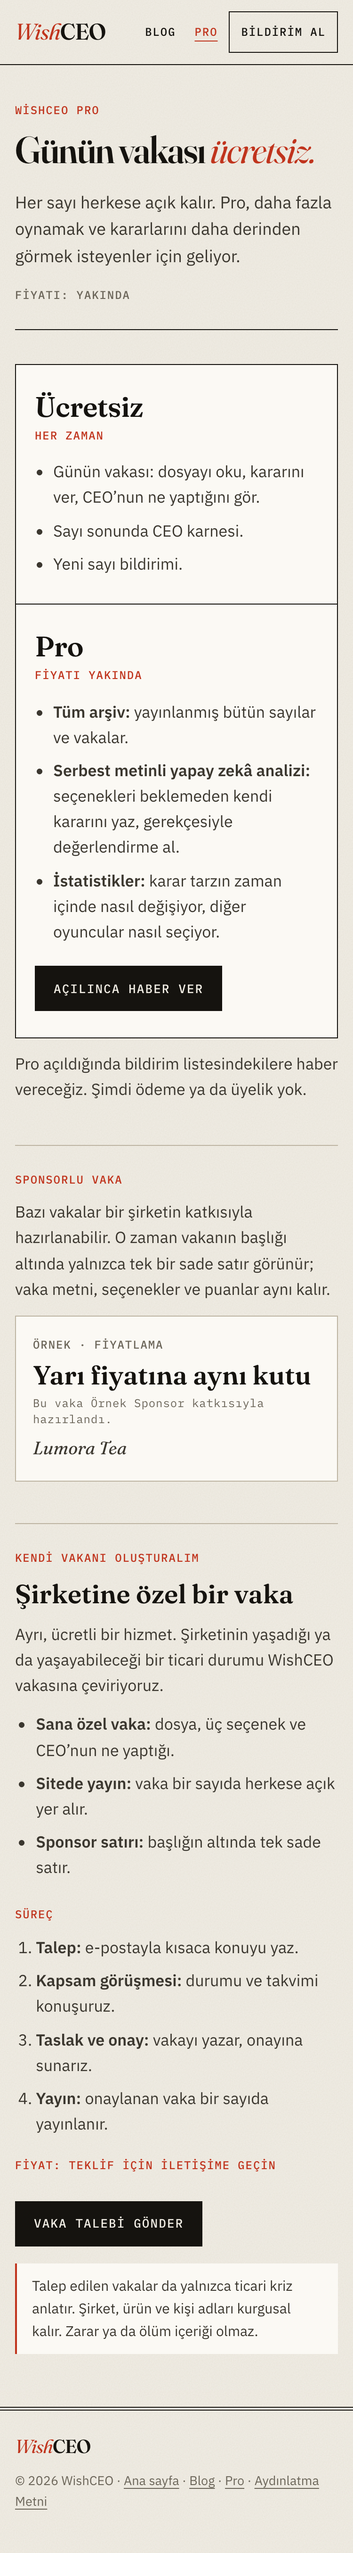
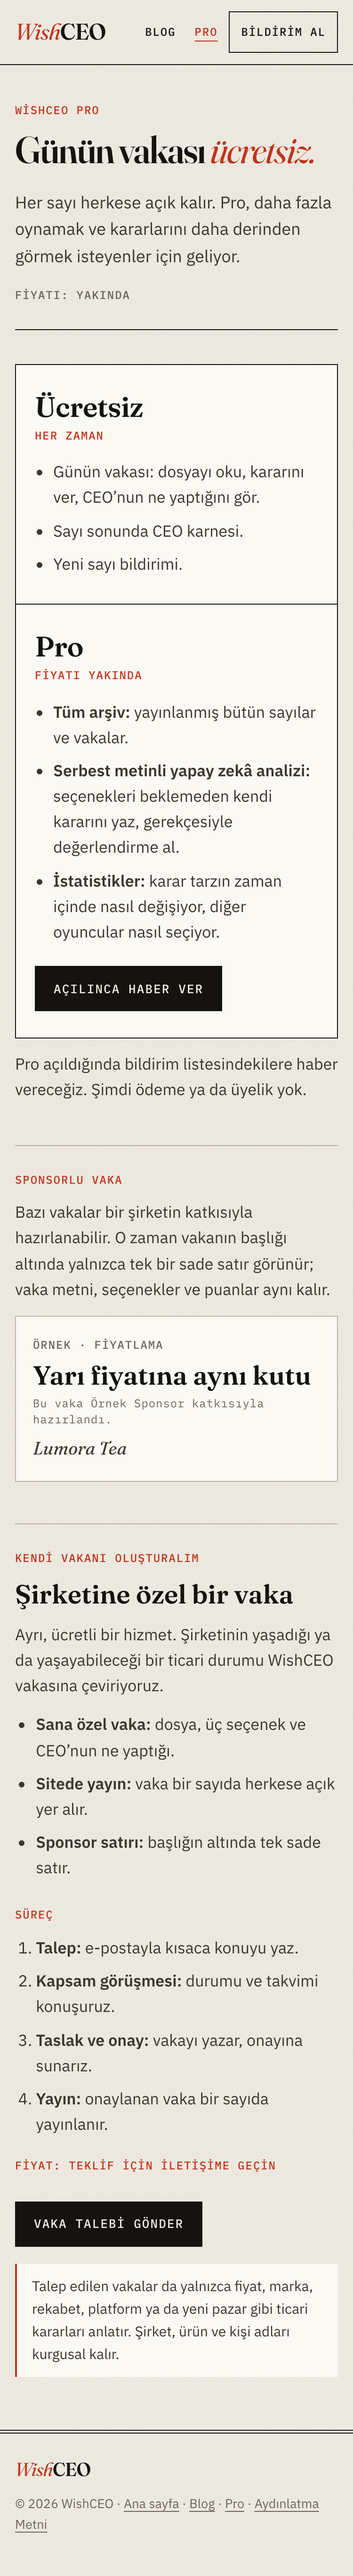
wishceo: kural notu yalnız ticari kararlar

diff --git a/sites/wishceo.com/pro.html b/sites/wishceo.com/pro.html
@@ -181,7 +181,7 @@ a{color:inherit;text-underline-offset:3px}
       </ol>
       <p class="ex-meta" style="margin-top:22px;color:var(--red)">Fiyat: teklif için iletişime geçin</p>
       <a class="cta" href="mailto:info@saascorner.co?subject=WishCEO%20vaka%20talebi">Vaka talebi gönder</a>
-      <p class="rule">Talep edilen vakalar da yalnızca ticari kriz anlatır. Şirket, ürün ve kişi adları kurgusal kalır. Zarar ya da ölüm içeriği olmaz.</p>
+      <p class="rule">Talep edilen vakalar da yalnızca fiyat, marka, rekabet, platform ya da yeni pazar gibi ticari kararları anlatır. Şirket, ürün ve kişi adları kurgusal kalır.</p>
     </div>
   </div>
 </main>
